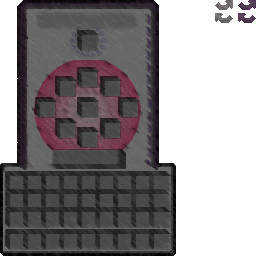
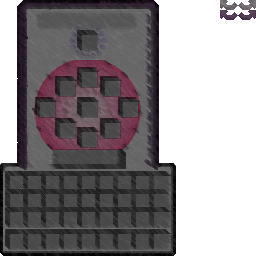
Added basic Packet Handling, Added Buttons to the Summoning book and evil tablet

Changed region(s): [[0.8438, 0.0, 1.0, 0.0938]]

diff --git a/MCP/src/minecraft/demonmodders/Crymod/Client/Gui/GuiSummoningBook.java b/MCP/src/minecraft/demonmodders/Crymod/Client/Gui/GuiSummoningBook.java
@@ -3,12 +3,20 @@ package demonmodders.Crymod.Client.Gui;
 import org.lwjgl.opengl.GL11;
 
 import net.minecraft.src.Container;
+import net.minecraft.src.GuiButton;
 import net.minecraft.src.GuiContainer;
 
 public class GuiSummoningBook extends GuiContainer {
 
 	private static final int EFFECTIVE_HEIGHT = 256;
 	private static final int EFFECTIVE_WIDTH = 176;
+	private static final int BOOK_WIDTH = 159;
+	private static final int BOOK_HEIGHT = 163;
+	private static final int ARROW_HEIGHT = 10;
+	private static final int ARROW_WIDTH = 18;
+	
+	private static final int BUTTON_NEXT = 0;
+	private static final int BUTTON_PREV = 1;
 	
 	private final String texture;
 	
@@ -18,10 +26,32 @@ public class GuiSummoningBook extends GuiContainer {
 	}
 
 	@Override
+	public void initGui() {
+		super.initGui();
+		int buttonNextX = (width - EFFECTIVE_WIDTH) / 2 + BOOK_WIDTH + 3;
+		int buttonPrevX = (width - EFFECTIVE_WIDTH) / 2 - 3;
+		
+		int buttonY = (height - EFFECTIVE_HEIGHT) / 2 + BOOK_HEIGHT - ARROW_HEIGHT - 3;
+		
+		controlList.add(new GuiButtonImage(BUTTON_NEXT, buttonNextX, buttonY, ARROW_WIDTH, ARROW_HEIGHT, 256 - ARROW_WIDTH, 0, texture));
+		controlList.add(new GuiButtonImage(BUTTON_PREV, buttonPrevX, buttonY, ARROW_WIDTH, ARROW_HEIGHT, 256 - ARROW_WIDTH - ARROW_WIDTH, 0, texture));
+	}
+
+	@Override
+	protected void actionPerformed(GuiButton button) {
+		switch (button.id) {
+		case BUTTON_NEXT:
+			break;
+		case BUTTON_PREV:
+			break;
+		}
+	}
+
+	@Override
 	protected void drawGuiContainerBackgroundLayer(float var1, int var2, int var3) {
-		int texture = mc.renderEngine.getTexture(this.texture);
+		int textureName = mc.renderEngine.getTexture(texture);
         GL11.glColor4f(1.0F, 1.0F, 1.0F, 1.0F);
-        mc.renderEngine.bindTexture(texture);
+        mc.renderEngine.bindTexture(textureName);
         drawTexturedModalRect(width / 2 - EFFECTIVE_WIDTH / 2, height / 2 - EFFECTIVE_HEIGHT / 2, 0, 0, EFFECTIVE_WIDTH, EFFECTIVE_HEIGHT);
 	}
 

diff --git a/MCP/src/common/demonmodders/Crymod/Common/Network/CrymodPacket.java b/MCP/src/common/demonmodders/Crymod/Common/Network/CrymodPacket.java
@@ -1,0 +1,47 @@
+package demonmodders.Crymod.Common.Network;
+
+import java.io.DataInput;
+import java.io.DataOutput;
+import java.util.HashMap;
+import java.util.Map;
+
+import com.google.common.io.ByteArrayDataInput;
+import com.google.common.io.ByteStreams;
+
+import cpw.mods.fml.common.network.Player;
+
+import static demonmodders.Crymod.Common.Crymod.logger;
+
+import net.minecraft.src.Packet250CustomPayload;
+
+public abstract class CrymodPacket {
+	
+	private static Map<Integer, Class<? extends CrymodPacket>> packetMappings = new HashMap<Integer, Class<? extends CrymodPacket>>();
+	
+	static {
+		
+	}
+	
+	abstract void writeData(DataOutput out);
+	
+	abstract void readData(DataInput in);
+	
+	abstract void execute(Player player);
+	
+	public static void execute(Packet250CustomPayload packet, Player player) {
+		ByteArrayDataInput input = ByteStreams.newDataInput(packet.data);
+		int packetId = input.readByte();
+		Class<? extends CrymodPacket> packetClass = packetMappings.get(packetId);
+		if (packetClass == null) {
+			logger.warning("Recieved unknown Packet-Id " + packetId);
+		} else {
+			try {
+				CrymodPacket parsedPacket = packetClass.newInstance();
+				parsedPacket.readData(input);
+				parsedPacket.execute(player);
+			} catch (Exception e) {
+				logger.warning("Exception during packet handling: " + e.getClass().getSimpleName() + " (" + e.getMessage() + ")");
+			}
+		}
+	}
+}

diff --git a/MCP/src/minecraft/demonmodders/Crymod/Client/Gui/GuiButtonImage.java b/MCP/src/minecraft/demonmodders/Crymod/Client/Gui/GuiButtonImage.java
@@ -1,0 +1,33 @@
+package demonmodders.Crymod.Client.Gui;
+
+import org.lwjgl.opengl.GL11;
+
+import net.minecraft.client.Minecraft;
+import net.minecraft.src.GuiButton;
+
+public class GuiButtonImage extends GuiButton {
+
+	private final int textureX;
+	private final int textureY;
+	private final String texture;
+	
+	public GuiButtonImage(int buttonId, int x, int y, int width, int height, int textureX, int textureY, String texture) {
+		super(buttonId, x, y, width, height, "");
+		this.textureX = textureX;
+		this.textureY = textureY;
+		this.texture = texture;
+	}
+
+	@Override
+	public void drawButton(Minecraft mc, int mouseX, int mouseY) {
+		if (this.drawButton) {
+			boolean isMouseOver = mouseX >= xPosition && mouseY >= yPosition && mouseX < xPosition + width && mouseY < yPosition + height;
+			GL11.glColor4f(1.0F, 1.0F, 1.0F, 1.0F);
+			mc.renderEngine.bindTexture(mc.renderEngine.getTexture(texture));
+			drawTexturedModalRect(xPosition, yPosition, textureX, textureY + (isMouseOver ? height : 0), width, height);
+		}
+	}
+
+	
+	
+}

diff --git a/MCP/src/common/demonmodders/Crymod/Common/Crymod.java b/MCP/src/common/demonmodders/Crymod/Common/Crymod.java
@@ -1,5 +1,3 @@
-//trolololololol my god its works
-// yes it does :D
 package demonmodders.Crymod.Common;
 
 import java.util.logging.Logger;
@@ -21,9 +19,10 @@ import cpw.mods.fml.common.network.NetworkMod;
 import cpw.mods.fml.common.network.NetworkRegistry;
 import demonmodders.Crymod.Common.Gui.CrymodGuiHandler;
 import demonmodders.Crymod.Common.Items.ItemCryMod;
+import demonmodders.Crymod.Common.Network.CrymodPacketHandler;
 
 @Mod(modid = "crymod", name = "Angelic Cry Mod [WIP]", version = "0.1")
-@NetworkMod(channels = {"crymod"}, clientSideRequired = true, serverSideRequired = false)
+@NetworkMod(channels = {"crymod"}, packetHandler = CrymodPacketHandler.class, clientSideRequired = true, serverSideRequired = false)
 public class Crymod {
 	
 	@SidedProxy(clientSide = "demonmodders.Crymod.Client.ClientProxy", serverSide = "demonmodders.Crymod.Common.CommonProxy")

diff --git a/MCP/src/common/demonmodders/Crymod/Common/Network/CrymodPacketHandler.java b/MCP/src/common/demonmodders/Crymod/Common/Network/CrymodPacketHandler.java
@@ -1,0 +1,14 @@
+package demonmodders.Crymod.Common.Network;
+
+import net.minecraft.src.INetworkManager;
+import net.minecraft.src.Packet250CustomPayload;
+import cpw.mods.fml.common.network.IPacketHandler;
+import cpw.mods.fml.common.network.Player;
+
+public class CrymodPacketHandler implements IPacketHandler {
+
+	@Override
+	public void onPacketData(INetworkManager manager, Packet250CustomPayload packet, Player player) {
+		CrymodPacket.execute(packet, player);
+	}
+}
